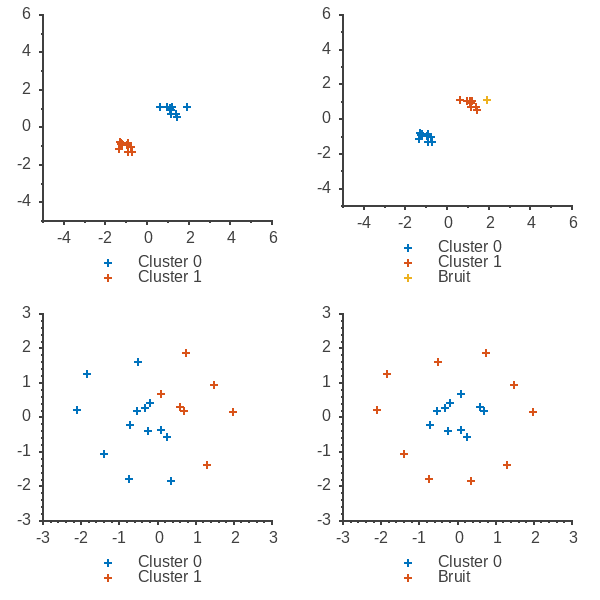
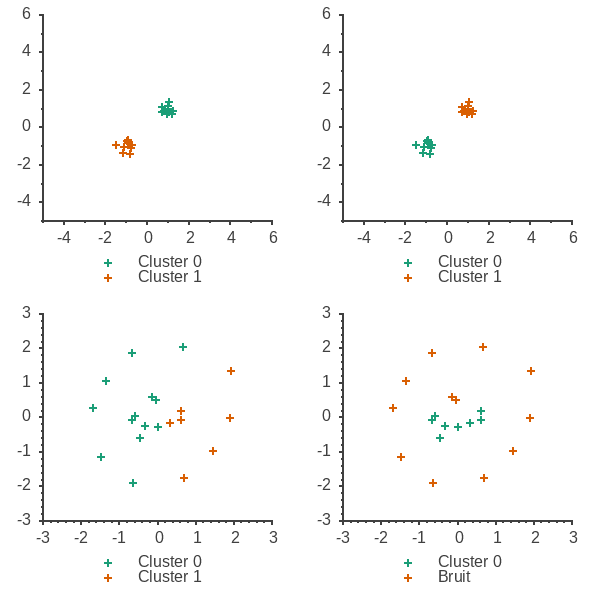
minor changes

diff --git a/src/main.cpp b/src/main.cpp
@@ -237,7 +237,7 @@ int main()
                               };
         
         fig.size(600, 600);
-        fig.palette("matlab");
+        // fig.palette("matlab");
         fig.show();
         fig.save("../result.png");
         
